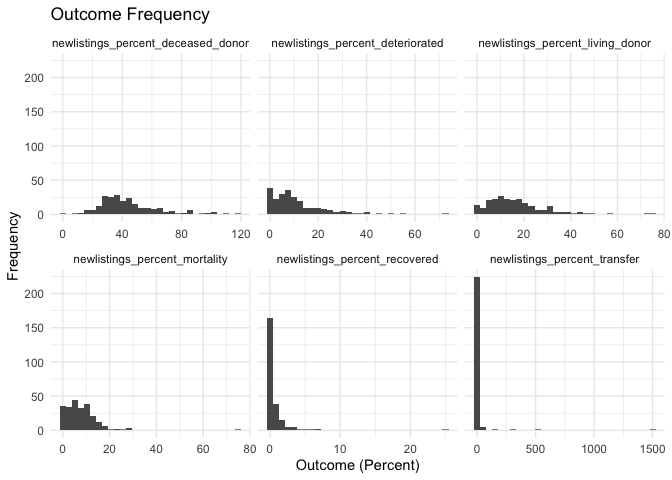
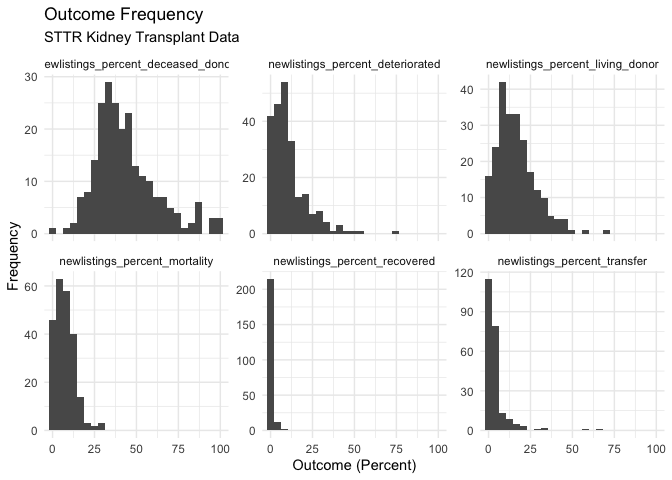
Improved data labeling.

diff --git a/code/KidneyDataMS.md b/code/KidneyDataMS.md
@@ -78,53 +78,15 @@ str(df_one)
     ##  $ wla_st_puz     : chr [1:240] "On waitlist at start" "100" "100" "100" ...
 
 ``` r
-head(df_one)
+#head(df_one)
+#tail(df_one)
+#view(df_one)
 ```
 
-    ## # A tibble: 6 × 60
-    ##   entire_name    ctr_cd  ctr_ty release_date org   wla_addcen_nc1 wla_addcen_nc2
-    ##   <chr>          <chr>   <chr>  <chr>        <chr> <chr>          <chr>         
-    ## 1 Center Name    Center… Cente… Release Date Organ New Listings   New Listings  
-    ## 2 Children's of… ALCH    TX1    44046.79166… KI    13             7             
-    ## 3 University of… ALUA    TX1    44046.79166… KI    426            447           
-    ## 4 Birmingham VA… ALVA    TX1    44046.79166… KI    36             35            
-    ## 5 Arkansas Chil… ARCH    TX1    44046.79166… KI    14             5             
-    ## 6 UAMS Medical … ARUA    TX1    44046.79166… KI    145            188           
-    ## # … with 53 more variables: wla_addcen_pcz <chr>, wla_addcen_prz <chr>,
-    ## #   wla_addcen_puz <chr>, wla_end_nc1 <chr>, wla_end_nc2 <chr>,
-    ## #   wla_end_pcz <chr>, wla_end_prz <chr>, wla_end_puz <chr>,
-    ## #   wla_remdet_nc1 <chr>, wla_remdet_nc2 <chr>, wla_remdet_pcz <chr>,
-    ## #   wla_remdet_prz <chr>, wla_remdet_puz <chr>, wla_remdied_nc1 <chr>,
-    ## #   wla_remdied_nc2 <chr>, wla_remdied_pcz <chr>, wla_remdied_prz <chr>,
-    ## #   wla_remdied_puz <chr>, wla_remoth_nc1 <chr>, wla_remoth_nc2 <chr>, …
-
-``` r
-tail(df_one)
-```
-
-    ## # A tibble: 6 × 60
-    ##   entire_name     ctr_cd ctr_ty release_date org   wla_addcen_nc1 wla_addcen_nc2
-    ##   <chr>           <chr>  <chr>  <chr>        <chr> <chr>          <chr>         
-    ## 1 Virginia Mason… WAVM   TX1    44046.79166… KI    105            150           
-    ## 2 Children's Hos… WICH   TX1    44046.79166… KI    10             10            
-    ## 3 Froedtert Memo… WISE   TX1    44046.79166… KI    190            106           
-    ## 4 Aurora St. Luk… WISL   TX1    44046.79166… KI    82             79            
-    ## 5 University of … WIUW   TX1    44046.79166… KI    407            451           
-    ## 6 Charleston Are… WVCA   TX1    44046.79166… KI    65             83            
-    ## # … with 53 more variables: wla_addcen_pcz <chr>, wla_addcen_prz <chr>,
-    ## #   wla_addcen_puz <chr>, wla_end_nc1 <chr>, wla_end_nc2 <chr>,
-    ## #   wla_end_pcz <chr>, wla_end_prz <chr>, wla_end_puz <chr>,
-    ## #   wla_remdet_nc1 <chr>, wla_remdet_nc2 <chr>, wla_remdet_pcz <chr>,
-    ## #   wla_remdet_prz <chr>, wla_remdet_puz <chr>, wla_remdied_nc1 <chr>,
-    ## #   wla_remdied_nc2 <chr>, wla_remdied_pcz <chr>, wla_remdied_prz <chr>,
-    ## #   wla_remdied_puz <chr>, wla_remoth_nc1 <chr>, wla_remoth_nc2 <chr>, …
-
-``` r
-view(df_one)
-```
-
-\#Change column names I will change the column names to more intuitive
-ones
+There are 240 observations and 60 variables, which describe kidney
+transplant pateints on a waitlist and the transplant centers. Most of
+the variables are characters. \#Change column names I will change the
+column names to more intuitive ones
 
 ``` r
 df_one_names = df_one %>% rename(newlistings_center_time1 = wla_addcen_nc1, newlistings_center_time2 = wla_addcen_nc2, newlistings_center_all = wla_addcen_pcz,newlistings_regional = wla_addcen_prz, newlistings_usa = wla_addcen_puz)  %>% rename( endlistings_center_time1 = wla_end_nc1, endlistings_center_time2 = wla_end_nc2, endlistings_center_all = wla_end_pcz, endlistings_regional = wla_end_prz, endlistings_usa = wla_end_puz) %>% rename(deteriorated_center_time1 = wla_remdet_nc1, deteriorated_center_time2 = wla_remdet_nc2, deteriorated_center_all = wla_remdet_pcz, deteriorated_regional = wla_remdet_prz, deteriorated_usa = wla_remdet_puz) %>% rename( died_center_time1 = wla_remdied_nc1, died_center_time2 = wla_remdied_nc2, died_center_all = wla_remdied_pcz, died_regional = wla_remdied_prz, died_usa = wla_remdied_puz) %>% rename(other_center_time1 = wla_remoth_nc1, other_center_time2 = wla_remoth_nc2, other_center_all = wla_remoth_pcz, other_regional = wla_remoth_prz, other_usa = wla_remoth_puz) %>% rename( recovered_center_time1 = wla_remrec_nc1, recovered_center_time2 = wla_remrec_nc2, recovered_center_all = wla_remrec_pcz, recovered_regional = wla_remrec_prz, recovered_usa = wla_remrec_puz) %>% rename(transfer_center_time1 = wla_remtfer_nc1, transfer_center_time2 = wla_remtfer_nc2, transfer_center_all = wla_remtfer_pcz, transfer_regional = wla_remtfer_prz, transfer_usa = wla_remtfer_puz) %>% rename(deceased_donor_center_time1 = wla_remtxc_nc1, deceased_donor_center_time2 = wla_remtxc_nc2, deceased_donor_center_all = wla_remtxc_pcz, deceased_donor_regional = wla_remtxc_prz, deceased_donor_usa = wla_remtxc_puz) %>% rename(living_donor_center_time1 = wla_remtxl_nc1, living_donor_center_time2 = wla_remtxl_nc2, living_donor_center_all = wla_remtxl_pcz, living_donor_regional = wla_remtxl_prz, living_donor_usa = wla_remtxl_puz) %>% rename(transplant_other_center_time1 = wla_remtxoc_nc1, transplant_other_center_time2 = wla_remtxoc_nc2, transplant_other_center_all = wla_remtxoc_pcz, transplant_other_regional = wla_remtxoc_prz, transplant_other_center_usa = wla_remtxoc_puz) %>% rename(start_waitlist_center_time1 = wla_st_nc1, start_waitlist_center_time2 = wla_st_nc2, start_waitlist_center_all = wla_st_pcz, start_waitlist_regional = wla_st_prz, start_waitlist_usa = wla_st_puz) %>% view() 
@@ -132,7 +94,8 @@ df_one_names = df_one %>% rename(newlistings_center_time1 = wla_addcen_nc1, newl
 
 \#Tidy data.
 
-I will delete an extraneous row and drop missing values
+I will delete an extraneous row, drop missing values, and convert the
+appropriate columns from character to numeric.
 
 ``` r
 df_one_names = df_one_names[-c(1), ]
@@ -317,35 +280,9 @@ str(df_zipcodes)
     ##  $ zipcode    : num [1:238] 35233 35233 35233 72202 72205 ...
 
 ``` r
-head(df_zipcodes)
-```
-
-    ## # A tibble: 6 × 2
-    ##   entire_name                           zipcode
-    ##   <chr>                                   <dbl>
-    ## 1 Children's of Alabama (ALCH)            35233
-    ## 2 University of Alabama Hospital (ALUA)   35233
-    ## 3 Birmingham VA Medical Center (ALVA)     35233
-    ## 4 Arkansas Children's Hospital (ARCH)     72202
-    ## 5 UAMS Medical Center (ARUA)              72205
-    ## 6 Phoenix Children's Hospital (AZCH)      85016
-
-``` r
-tail(df_zipcodes)
-```
-
-    ## # A tibble: 6 × 2
-    ##   entire_name                                         zipcode
-    ##   <chr>                                                 <dbl>
-    ## 1 Virginia Mason Medical Center (WAVM)                  98111
-    ## 2 Children's Hospital of Wisconsin (WICH)               53226
-    ## 3 Froedtert Memorial Lutheran Hospital (WISE)           53226
-    ## 4 Aurora St. Luke's Medical Center (WISL)               53215
-    ## 5 University of Wisconsin Hospital and Clinics (WIUW)   53792
-    ## 6 Charleston Area Medical Center (WVCA)                 25325
-
-``` r
-view(df_zipcodes)
+#head(df_zipcodes)
+#tail(df_zipcodes)
+#view(df_zipcodes)
 ```
 
 Now I will cross reference the coordinates that correspond with each
@@ -357,22 +294,20 @@ for (zipcode in df_zipcodes["zipcode"]){
 }
 #view(df_zip_geo)
 df_geo_merge = merge(df_zipcodes, df_zip_geo, all = TRUE)
-view(df_geo_merge)
+#view(df_geo_merge)
 df_one_merge = merge(df_one_plot, df_geo_merge, all = TRUE)
-view(df_one_merge)
+#view(df_one_merge)
 ```
 
 \#Plot outcome variables. I will plot the outcome variables to get a
 sense of which have the most variability.
 
 ``` r
-df_outcomes = df_one_merge[, c(61:66)]
-view(df_outcomes)
-df_continuous = sapply(df_outcomes, as.numeric)
+df_outcomes = df_one_merge[, c(61:66)] %>% filter(newlistings_percent_transfer <= 100)
 str(df_outcomes)
 ```
 
-    ## 'data.frame':    238 obs. of  6 variables:
+    ## 'data.frame':    229 obs. of  6 variables:
     ##  $ newlistings_percent_mortality     : num  11.54 9.52 5.15 17.28 0 ...
     ##  $ newlistings_percent_deteriorated  : num  5.77 7.62 8.25 8.38 0 ...
     ##  $ newlistings_percent_transfer      : num  15.38 4.76 7.22 1.05 0 ...
@@ -381,19 +316,24 @@ str(df_outcomes)
     ##  $ newlistings_percent_recovered     : num  0 0 0 0 0 ...
 
 ``` r
-ggplot(gather(df_outcomes), aes(value)) + geom_histogram(bins = 30) + facet_wrap(~key, scales = 'free_x') + labs(
-    title = "Outcome Frequency",
-    x = "Outcome (Percent)",
-    y = "Frequency"
-  ) + theme_minimal() ###Remove ratio from the list
+ggplot(gather(df_outcomes), aes(value)) + geom_histogram(bins = 30) + facet_wrap(~key, scales = "free_y") + coord_cartesian(xlim = c(0, 100)) + labs(title = "Outcome Frequency", subtitle = "STTR Kidney Transplant Data", x = "Outcome (Percent)", y = "Frequency") + theme_minimal()
 ```
 
-    ## Warning: Removed 30 rows containing non-finite values (stat_bin).
+![](KidneyDataMS_files/figure-gfm/unnamed-chunk-7-1.png)<!-- -->
 
-![](KidneyDataMS_files/figure-gfm/unnamed-chunk-7-1.png)<!-- --> The
-percent deteriorated is the clinical outcome with the most variability.
-The percentages of living and deceased donors have some variability as
-well.
+``` r
+df_continuous = sapply(df_outcomes, as.numeric)
+str(df_continuous)
+```
+
+    ##  num [1:229, 1:6] 11.54 9.52 5.15 17.28 0 ...
+    ##  - attr(*, "dimnames")=List of 2
+    ##   ..$ : NULL
+    ##   ..$ : chr [1:6] "newlistings_percent_mortality" "newlistings_percent_deteriorated" "newlistings_percent_transfer" "newlistings_percent_living_donor" ...
+
+The percent deteriorated is the clinical outcome with the most
+variability. The percentages of living and deceased donors have some
+variability as well.
 
 Now I will plot the number of kidney transolant centers by zipcode.
 
